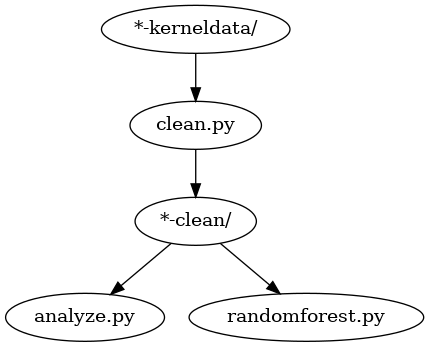
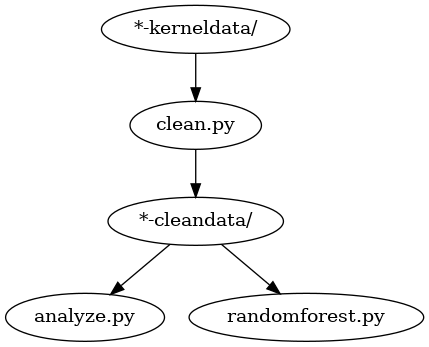
machine-learning/clean.py finished, working on machine-learning/analyze.py now

Changed region(s): [[0.2727, 0.5476, 0.6364, 0.7205], [0.6364, 0.6052, 0.6667, 0.6628], [0.2424, 0.6052, 0.2727, 0.6628]]

diff --git a/BinarySearch/machine-learning/clean.py b/BinarySearch/machine-learning/clean.py
@@ -1,23 +1,52 @@
 import pandas as pd
-
+import sys
+import os 
+import glob 
 '''
 Clean the dataset
 Here, that means the following:
 (1) The dataset is complete, i.e., no missing values, but for sufficiently large problems the CUDA timer malfunctioned, and reported times of either 0 ms 
     or ~10^{-41} ms. For what datasets this occurred must be determined, and they must be removed from the pool. 
 (2) Once the malformed datasets are determined, the problems for which they occurred will be recorded. 
-    - The ML component of this project will use this list as the basis for the test set
-(3) The remaining clean data will be used in the ML component as the training, and validation datasets.  
-
-Questions:
-(Q1): Should this module implement functions to clean kerneldata from a run on a device, or should it implement functionality to create a directory 
-   where the clean data, and list of malformed data, is stored so that it can be read in by analyze.py and randomforest.py?
-(A1): It should implement functionality, see project.png for flow.  
+    - The ML component of this project will use these problem sizes as the basis for the test set
+(3) The remaining clean data will be used in the ML component as the training, and validation datasets.
+    - The data analysis component will analyze the clean data in order to compute statistics
 '''
-# Program code
+# 
+def isDirty(data_csv: str) -> bool:
+    print(data_csv)
+    df = pd.read_csv(data_csv)
+    threshold = 1.0e-9
+    return df['taukern'].min() < threshold # malfunctioned data is either =0.0, or =1.0e-41 for this feature
 
-# Check that '*-kerneldata/' is taken as input
+# Program code
+kernel_data = sys.argv[1] # Should check that '*-kerneldata/' is taken as input, but who tf is being malicious with this
+print("kernel_data = {}".format(kernel_data))
+
+device_id = kernel_data.split('-')[0]
+print("device_id = {}".format(device_id))
 
 # Create output folder, '*-cleandata/', for the clean datasets, and list of malformed data 
+clean_dir = device_id + '-cleandata/'
+print("output location = {}".format(clean_dir))
 
-# Loop through all the datasets in '*-kerneldata/', and write the clean data to the output folder, and record what datasets are malformed
+# os.mkdir(clean_dir) # Add some exception handling to this
+try:
+    os.mkdir(clean_dir)
+    print(f"Directory '{clean_dir}' created successfully.")
+except FileExistsError:
+    print(f"Directory '{clean_dir}' already exists.")
+except Exception as e:
+    print(f"An error occurred: {e}")
+
+# Loop through all the datasets in '*-kerneldata/'
+all_files = glob.glob(os.path.join(kernel_data, '**', '*'), recursive=True)
+
+# Filter out directories, leaving only files
+files_only = [file for file in all_files if (os.path.isfile(file) and (file != kernel_data + '/README.md'))]
+
+malformed_list = clean_dir + 'dirty.txt'
+with open(malformed_list, 'w') as dirty_data:
+    for file in files_only:
+        if isDirty(file):
+            dirty_data.write(file + '\n') # Want to record the problem size for which malfunction occurs

diff --git a/BinarySearch/machine-learning/analyze.py b/BinarySearch/machine-learning/analyze.py
@@ -3,7 +3,7 @@ import pandas as pd
 # Analyze the data in a general manner so that this code can be re-used with rtx 2060 data
 
 # Analysis targets:
-# (1a) Which run was the absolute fastest, i.e., lowest taukern?
+# (1a) Which configuration was the absolute fastest, i.e., lowest average taukern?
 # 
 # (1b) Which run achieved the absolute highest effective bandwidth?
 # - BW_{eff} = (4 * log2(Nx) * 4 * N) / (taukern * 10^-6) / 10^9
@@ -15,10 +15,25 @@ import pandas as pd
 # - (IV) To determine the effective bandwidth, divide by the walltime (taukern [ms]), and then divide by a factor of 10^9 to obtain how many GB/s of 
 #   data were transferred. 
 #
-# (2a) Which feature set had the best average performance?
+# (2a) Which feature set (num_blocks, threads_per) had the best average performance?
 # (2b) Which feature set had the best average bandwidth? 
 #
 # (3) Which feature set was the most consistent, i.e., lowest variance?
 #
 # Visualization targets:
 # (1) What does the performance landscape look like for a given problem size? 
+#   - Obtain this by calculating the effective bandwidth for every variable permutation
+
+def computeStatistics(data_csv: str) -> (int, int, list, list, list, list):
+    df = pd.read_csv(data_csv)
+    exec_config = [] 
+    avg_runtime = []
+    variance = []
+    eff_bandwidth = []
+    # Determine the problem size associated with the DataFrame
+    # - Use string methods to obtain N, Nx from data_csv
+    # Compute the average runtime, and variance, for each of the unique execution configurations
+    # Compute the (average) effective bandwidth for each of the unique execution configurations
+    return N, Nx, exec_config, avg_runtime, variance, eff_bandwidth
+
+# Need to get 
